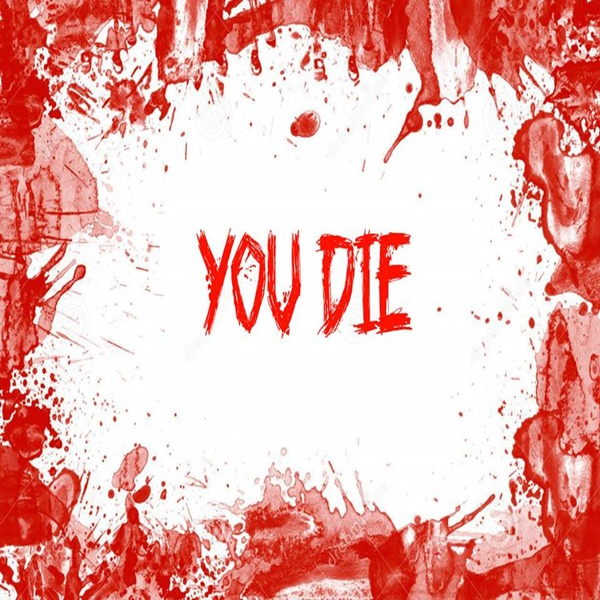
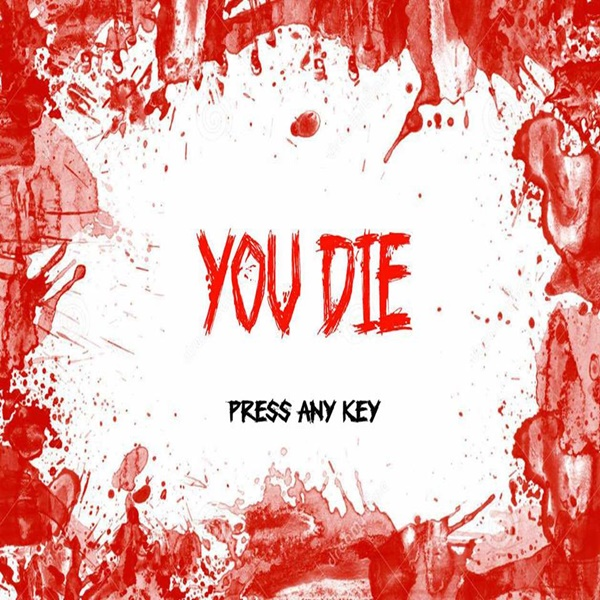
logic chess not complete

Changed region(s): [[0.36, 0.66, 0.63, 0.72]]

diff --git a/core/src/com/oop/loop/mapScreen/Die_scene.java b/core/src/com/oop/loop/mapScreen/Die_scene.java
@@ -1,10 +1,12 @@
 package com.oop.loop.mapScreen;
 
 import com.badlogic.gdx.Gdx;
+import com.badlogic.gdx.Input;
 import com.badlogic.gdx.Screen;
 import com.badlogic.gdx.audio.Sound;
 import com.badlogic.gdx.graphics.Texture;
 import com.badlogic.gdx.graphics.g2d.SpriteBatch;
+import com.badlogic.gdx.utils.ObjectFloatMap;
 import com.badlogic.gdx.utils.TimeUtils;
 
 /**
@@ -15,6 +17,7 @@ public class Die_scene implements Screen{
     private SpriteBatch batch;
     private Texture background;
     private long time_start;
+    private  boolean change = false;
 
     public Die_scene(SpriteBatch batch)
     {
@@ -44,8 +47,16 @@ public class Die_scene implements Screen{
         batch.begin();
         batch.draw(background,0,0);
         batch.end();
+        if(Gdx.input.isKeyJustPressed(Input.Keys.ANY_KEY))
+        {
+            change = true;
+        }
     }
 
+    public boolean changeMap()
+    {
+        return change;
+    }
     @Override
     public void resize(int width, int height) {
 

diff --git a/core/src/com/oop/loop/Loops.java b/core/src/com/oop/loop/Loops.java
@@ -32,7 +32,7 @@ public class Loops extends Game {
 		m5 = new Map5(batch);
 		m6 = new Map6(batch);
 		end_map = new Map_end(batch);
-		this.setScreen(m3);
+		this.setScreen(m6);
 	}
 
 	@Override
@@ -96,7 +96,8 @@ public class Loops extends Game {
 		}
 		if(m5.changeMap()==2)
 		{
-			this.setScreen(m1);
+			die.run();
+			this.setScreen(die);
 			m5 = new Map5(batch);
 		}
 		//map 6
@@ -107,7 +108,8 @@ public class Loops extends Game {
 		}
 		if(m6.changeMap()==2)
 		{
-			this.setScreen(m1);
+			die.run();
+			this.setScreen(die);
 			m6 = new Map6(batch);
 		}
 		//end map
@@ -122,6 +124,12 @@ public class Loops extends Game {
 		{
 			this.setScreen(start);
 			end = new End_Screen(this);
+		}
+		//die scene
+		if(die.changeMap())
+		{
+			this.setScreen(m1);
+			die = new Die_scene(batch);
 		}
 	}
 

diff --git a/core/src/com/oop/loop/mapScreen/Map6.java b/core/src/com/oop/loop/mapScreen/Map6.java
@@ -133,11 +133,11 @@ public class Map6 implements Screen {
         //check true gate
         if(get_gate!=true_gate&&get_gate!=0)
         {
-            door = 1;
+            door = 2;
         }
         if(get_gate==true_gate)
         {
-            door = 1;
+            door = 2;
         }
     }
 
